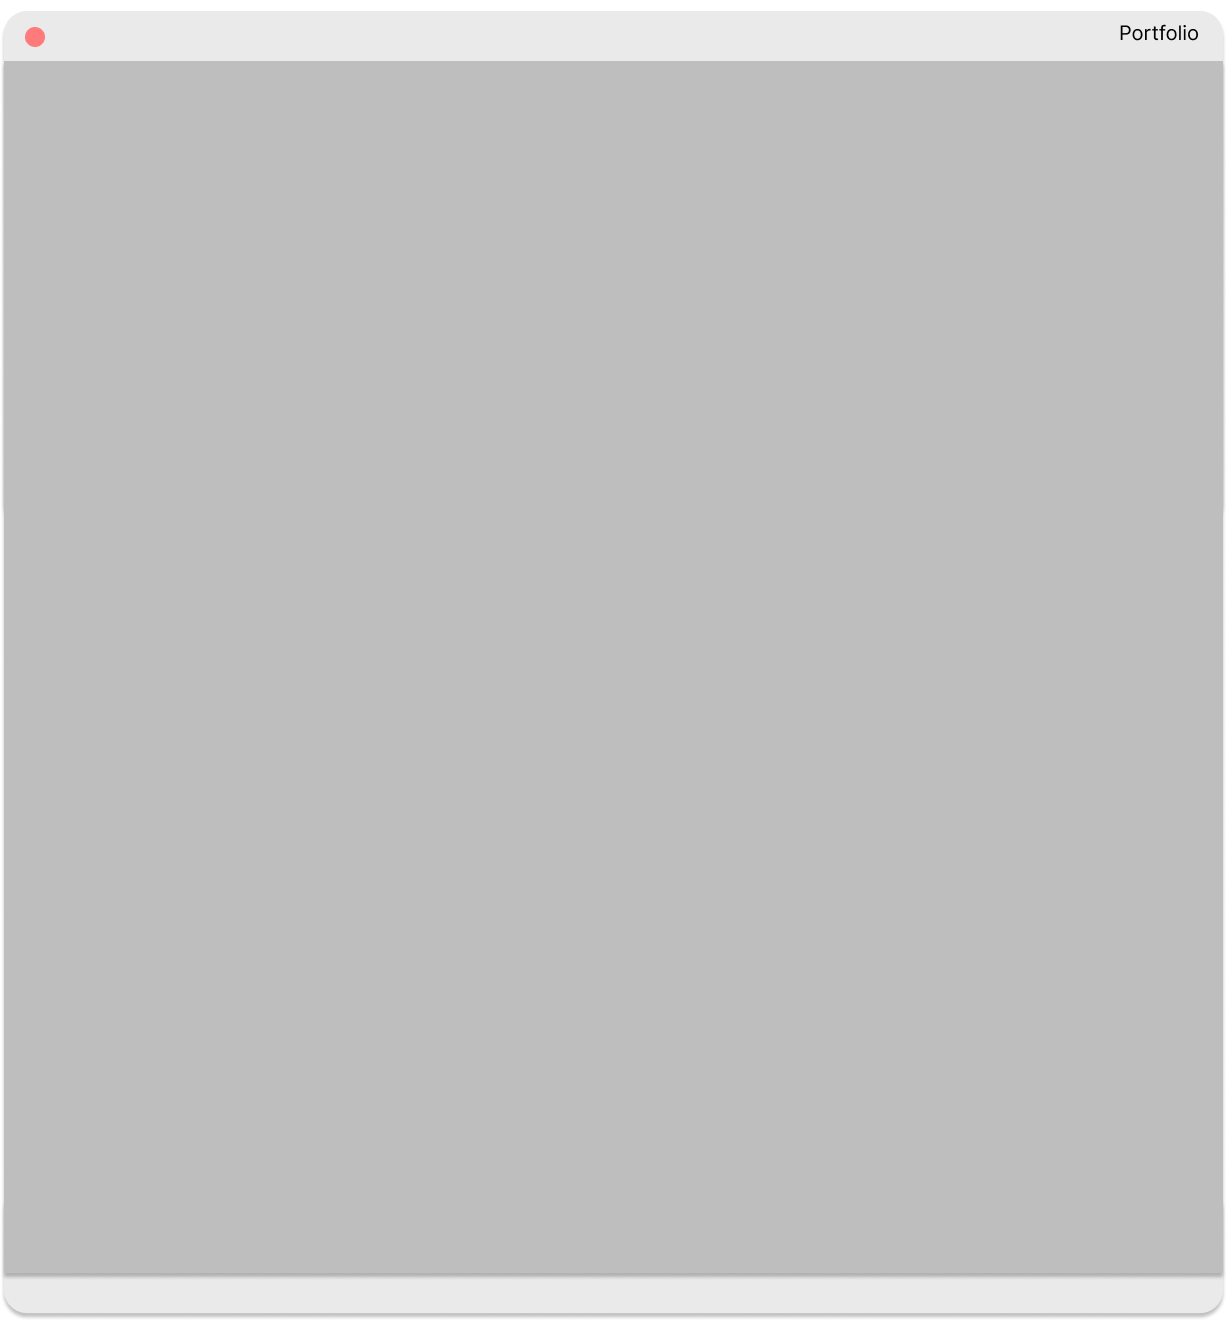
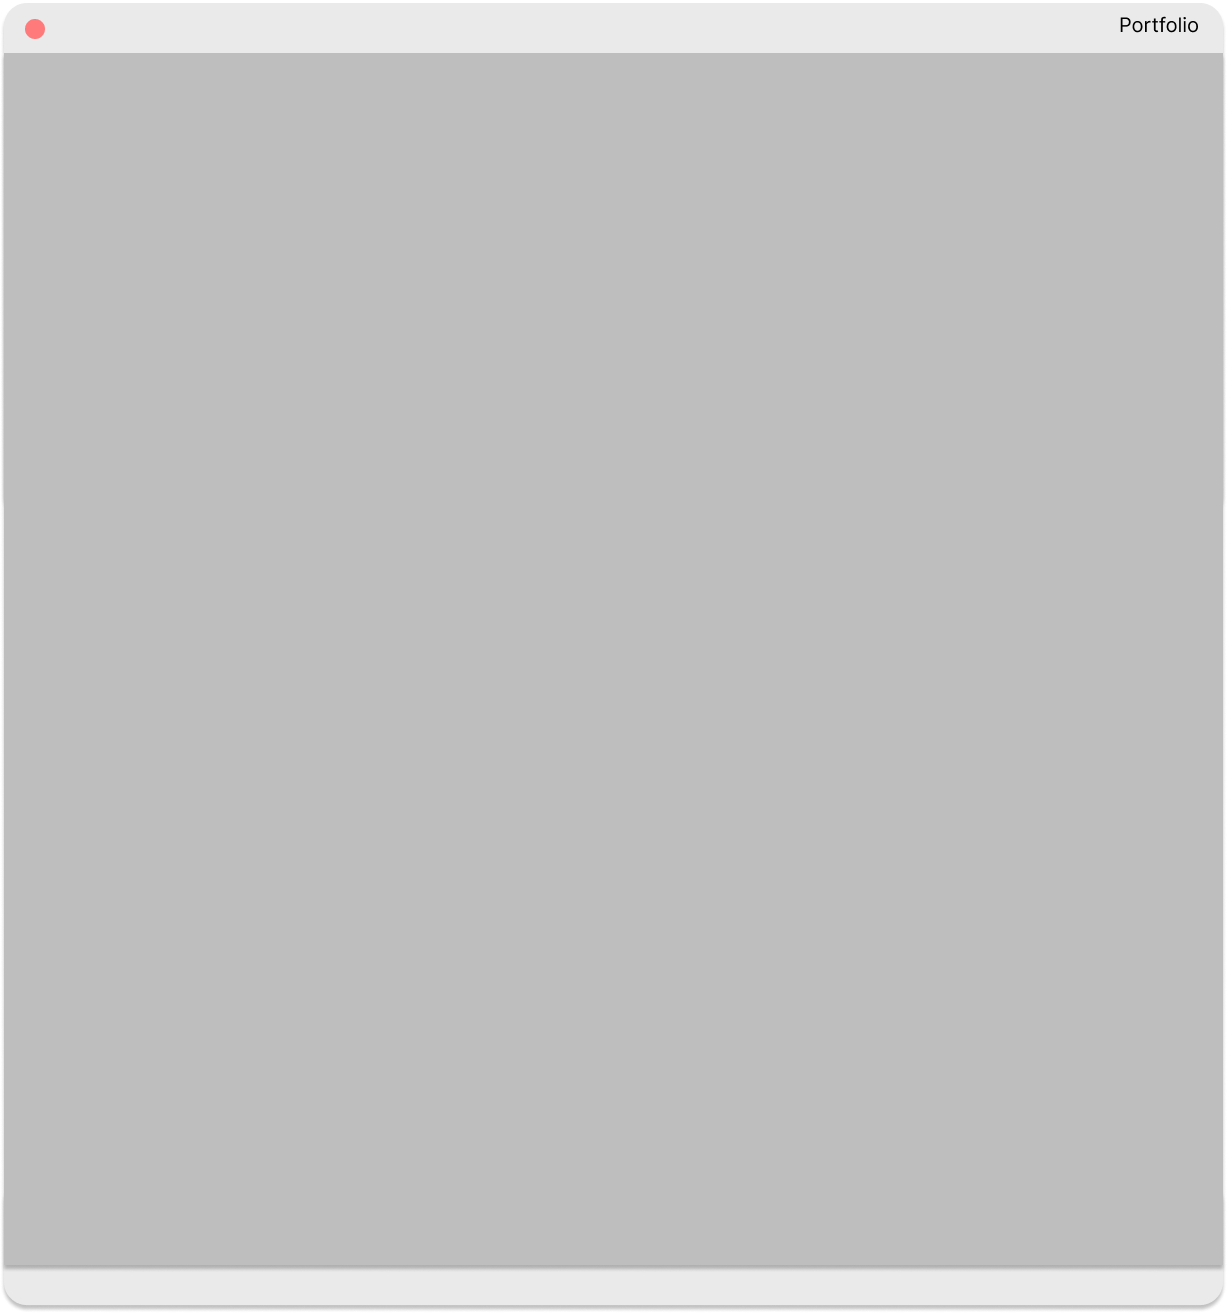
tessst

Changed region(s): [[0.0, 0.0, 1.0, 0.0624]]

diff --git a/about.html b/about.html
@@ -12,7 +12,7 @@
 	<script src="mouseFollowers.js" type="text/javascript"></script>
 </head>
 <body>
-    <div id="container" style="height: 100%;">
+    <div id="container" style="height: 110vh;">
         <div class="header" id="myHeader">
 		    <nav id="navlinks"></nav>
 		    <script>$(function(){$("#navlinks").load("nav.html");});</script>  
@@ -42,7 +42,9 @@
             <em>Ones to Watch 2026,</em> Sunny Bank Mills, 10th January - 29th March 2026<br>
             <em>Ones to Watch 2026 Performance Night</em>, Sunny Bank Mills, 7th March</p>
         <div class="card" style="background-image:url('assets/frontpagestickers/spin.gif'); top: 62%; left: 67%; width: 30%; height: 30%; background-size: contain;"></div>
-        <div class="card" style="background-image:url('assets/stickers/sticker1.png'); top: 62%; left: 7%; max-width: 100px; "></div>
+        <div class="card" style="background-image:url('assets/stickers/sticker1.png'); top: 90%; left: 20%; width: 150x; height: 150px; background-size:contain; background-repeat: no-repeat; "></div>
+        <div class="card" style="background-image:url('assets/stickers/glorb.png'); top: 95%; left: 30%; width: 120x; height: 120px; background-size:contain; background-repeat: no-repeat; "></div>
+
     </div>
 </body>
     <script src="cards.js"></script>

diff --git a/style.css b/style.css
@@ -43,6 +43,7 @@ nav{
   width: 70%;
   margin-left: 400px;
   display: block;
+  margin-top: -35px;
 }
 
 #cvbox{
@@ -70,8 +71,6 @@ nav{
 	margin:auto; 
 	text-align:center;
 }
-
-
 
 #title{
   top: 2%;
@@ -103,11 +102,17 @@ nav{
   top: 200px;
   position: absolute;
   column-count: 3;
+  text-align: center;
 }
 
 .row{
   display: block; 
 }
+
+#mobileOnly{
+  opacity: 0%;
+}
+
 
 @media only screen and (max-width: 600px) {
   .card {
@@ -134,4 +139,36 @@ nav{
   #title{
     width: 30%;
   }
+
+  .grid{
+    width: 70%;
+    column-count: 1;
+    margin: auto;
+    margin-top: -12%;
+    margin-left: -20px;
+    background-color: #BEBEBE;
+    padding: 10px;
+    text-align: center;
+  }
+
+  #portfolio{
+    display: block;
+    height: 1000px;
+    width: 90%;
+    opacity: 0%;
+  }
+
+  .portfolioImage{
+    padding-bottom: 10px;
+  }
+
+  #mobileOnly{
+    position: absolute;
+    opacity: 100%;
+    top: 14%;
+    margin: auto;
+    left: 14.1%;
+    width: 76.2%;
+  }
+
 }

diff --git a/portfolio.html b/portfolio.html
@@ -15,12 +15,12 @@
         <div class="header" id="myHeader"><nav id="navlinks"></nav><script>$(function(){$("#navlinks").load("nav.html");});</script></div>
         <img id="title" src="assets/title.png"> 
         <img id="portfolio" src="assets/backgrounds/portfolio.png">
+        <img id="mobileOnly" src="assets/backgrounds/top.png">
         <div class="grid">
             <div class="row">
                 <a href="portfoliopages/glorb.html"><img class="portfolioImage" src="assets/portfolioGallery/glorb(2025).png"></a> 
                 <a href="portfoliopages/fortheloveoffandom.html"><img class="portfolioImage" src="assets/portfolioGallery/fortheloveoffandom.png"></a> 
                 <a href="portfoliopages/fullcircle.html"><img class="portfolioImage" src="assets/portfolioGallery/fullcircle.png"></a> 
-
             </div>
         </div>
     </div>
